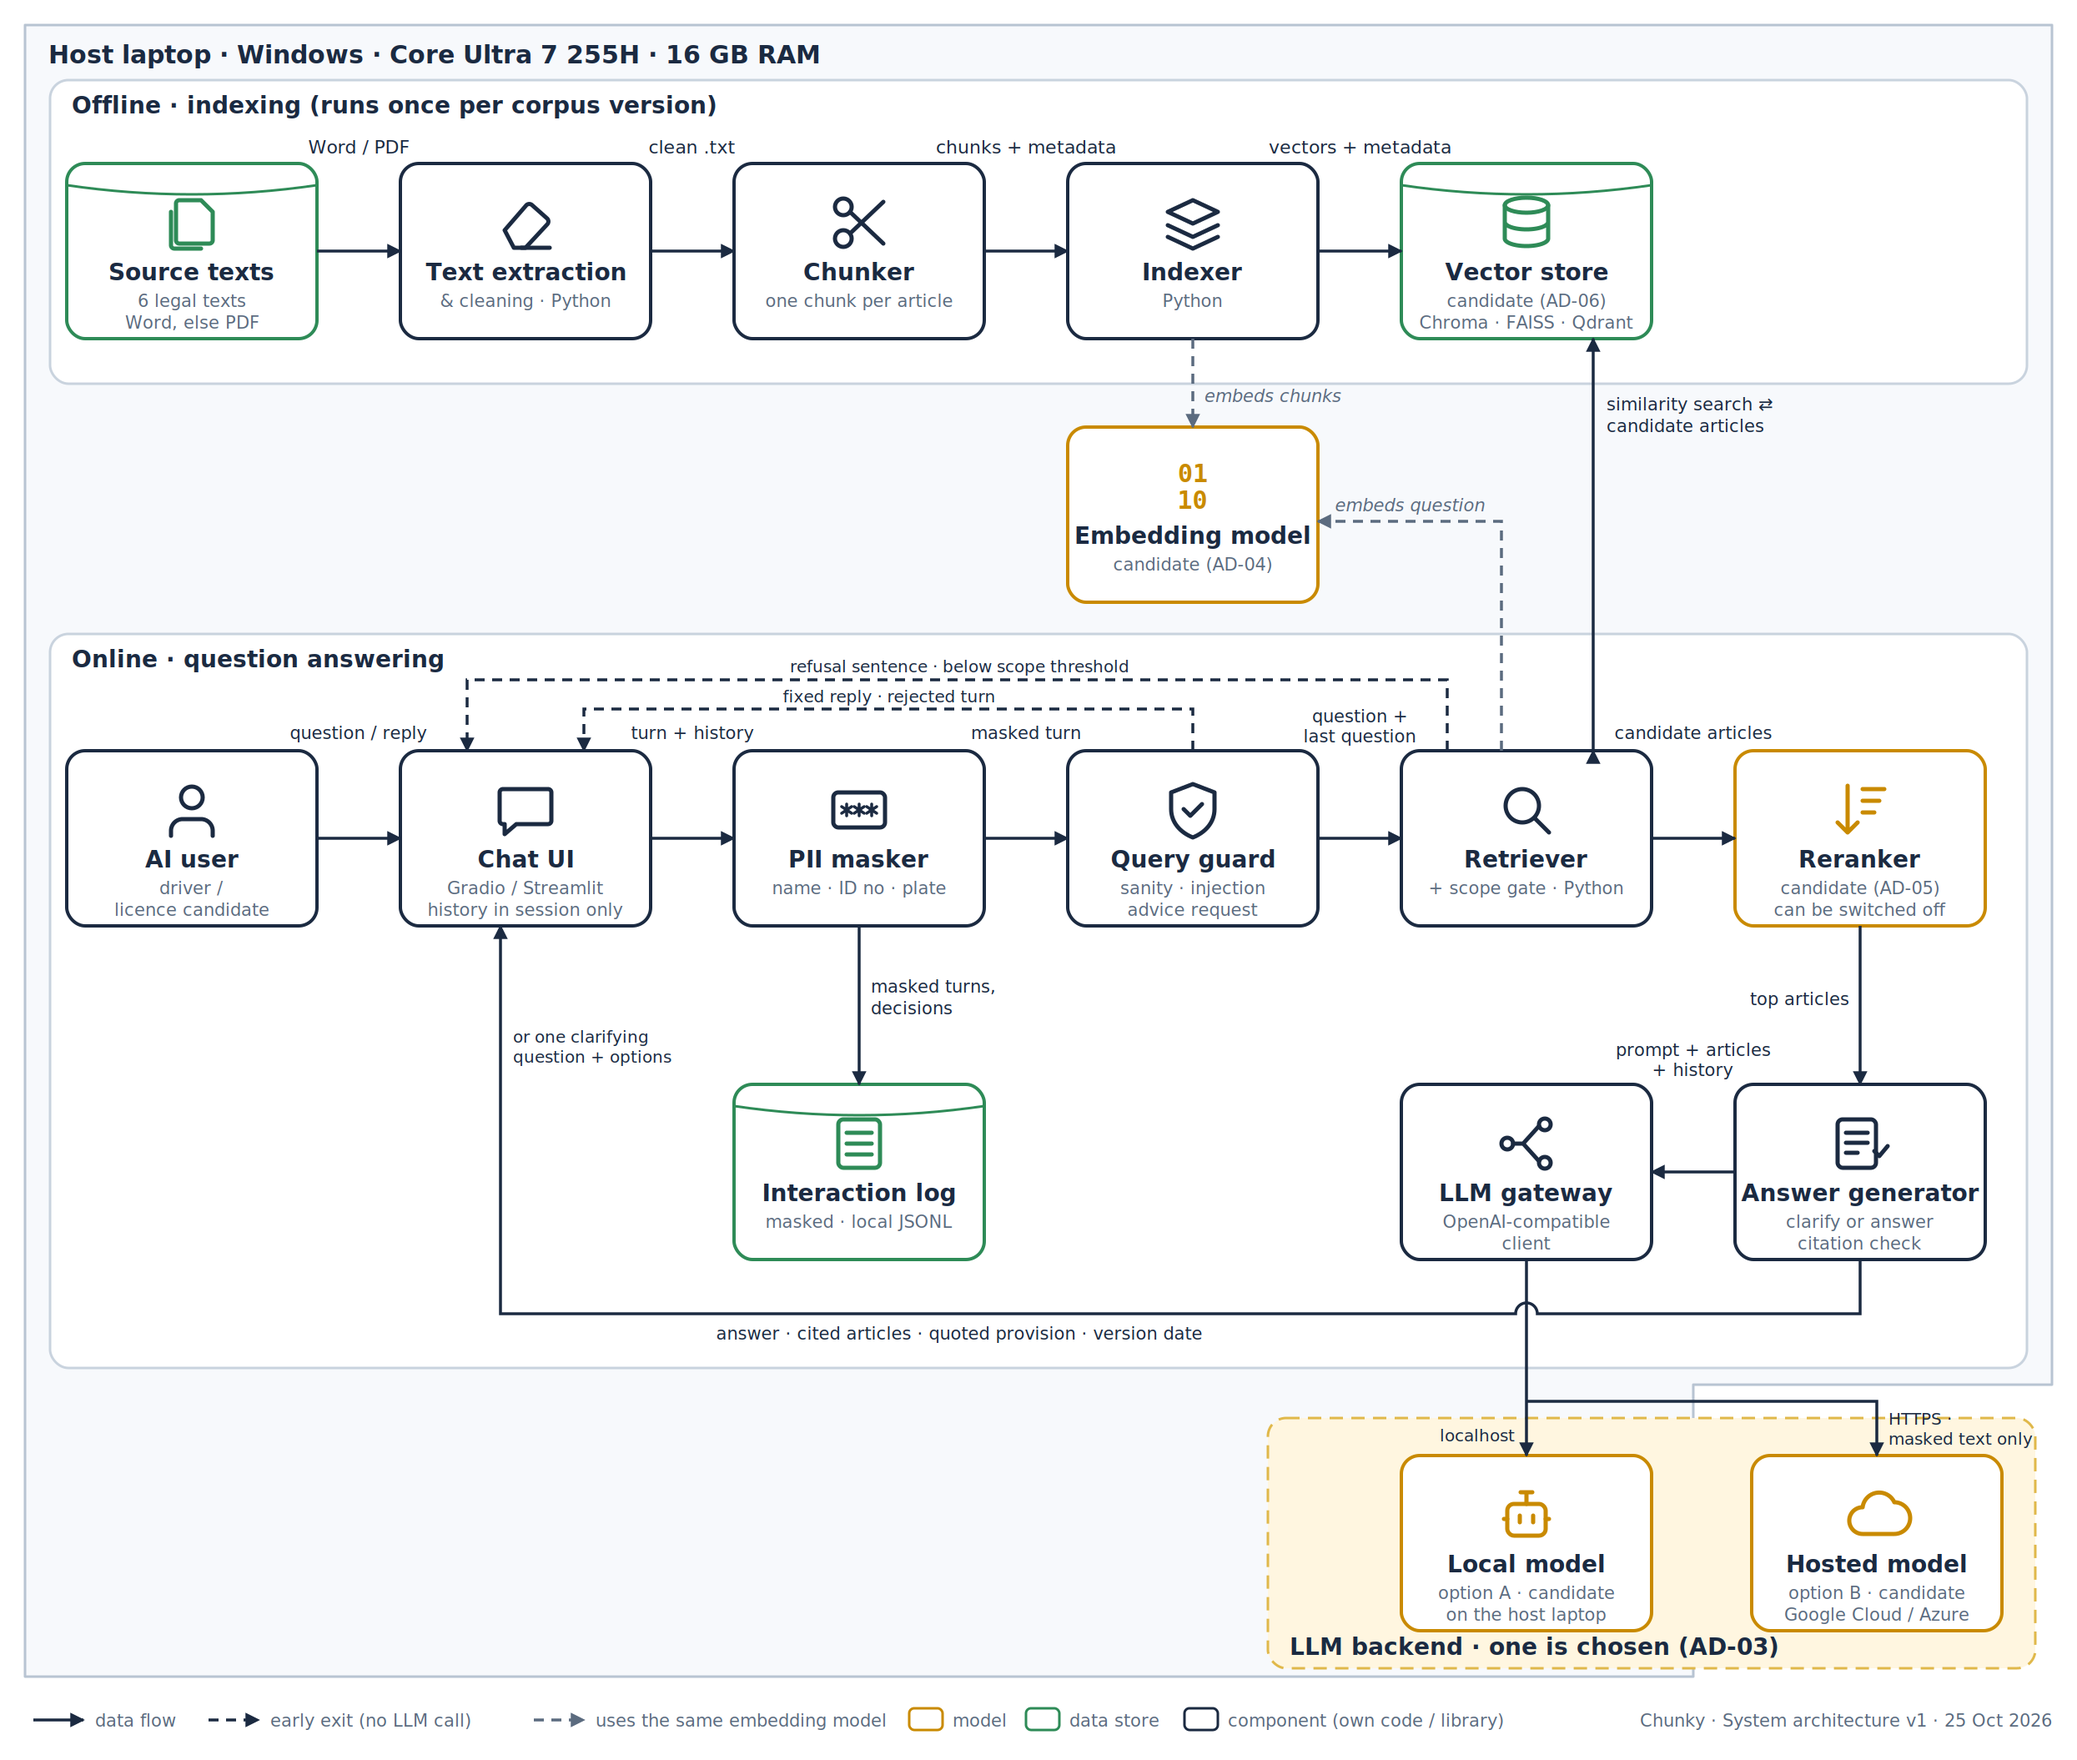
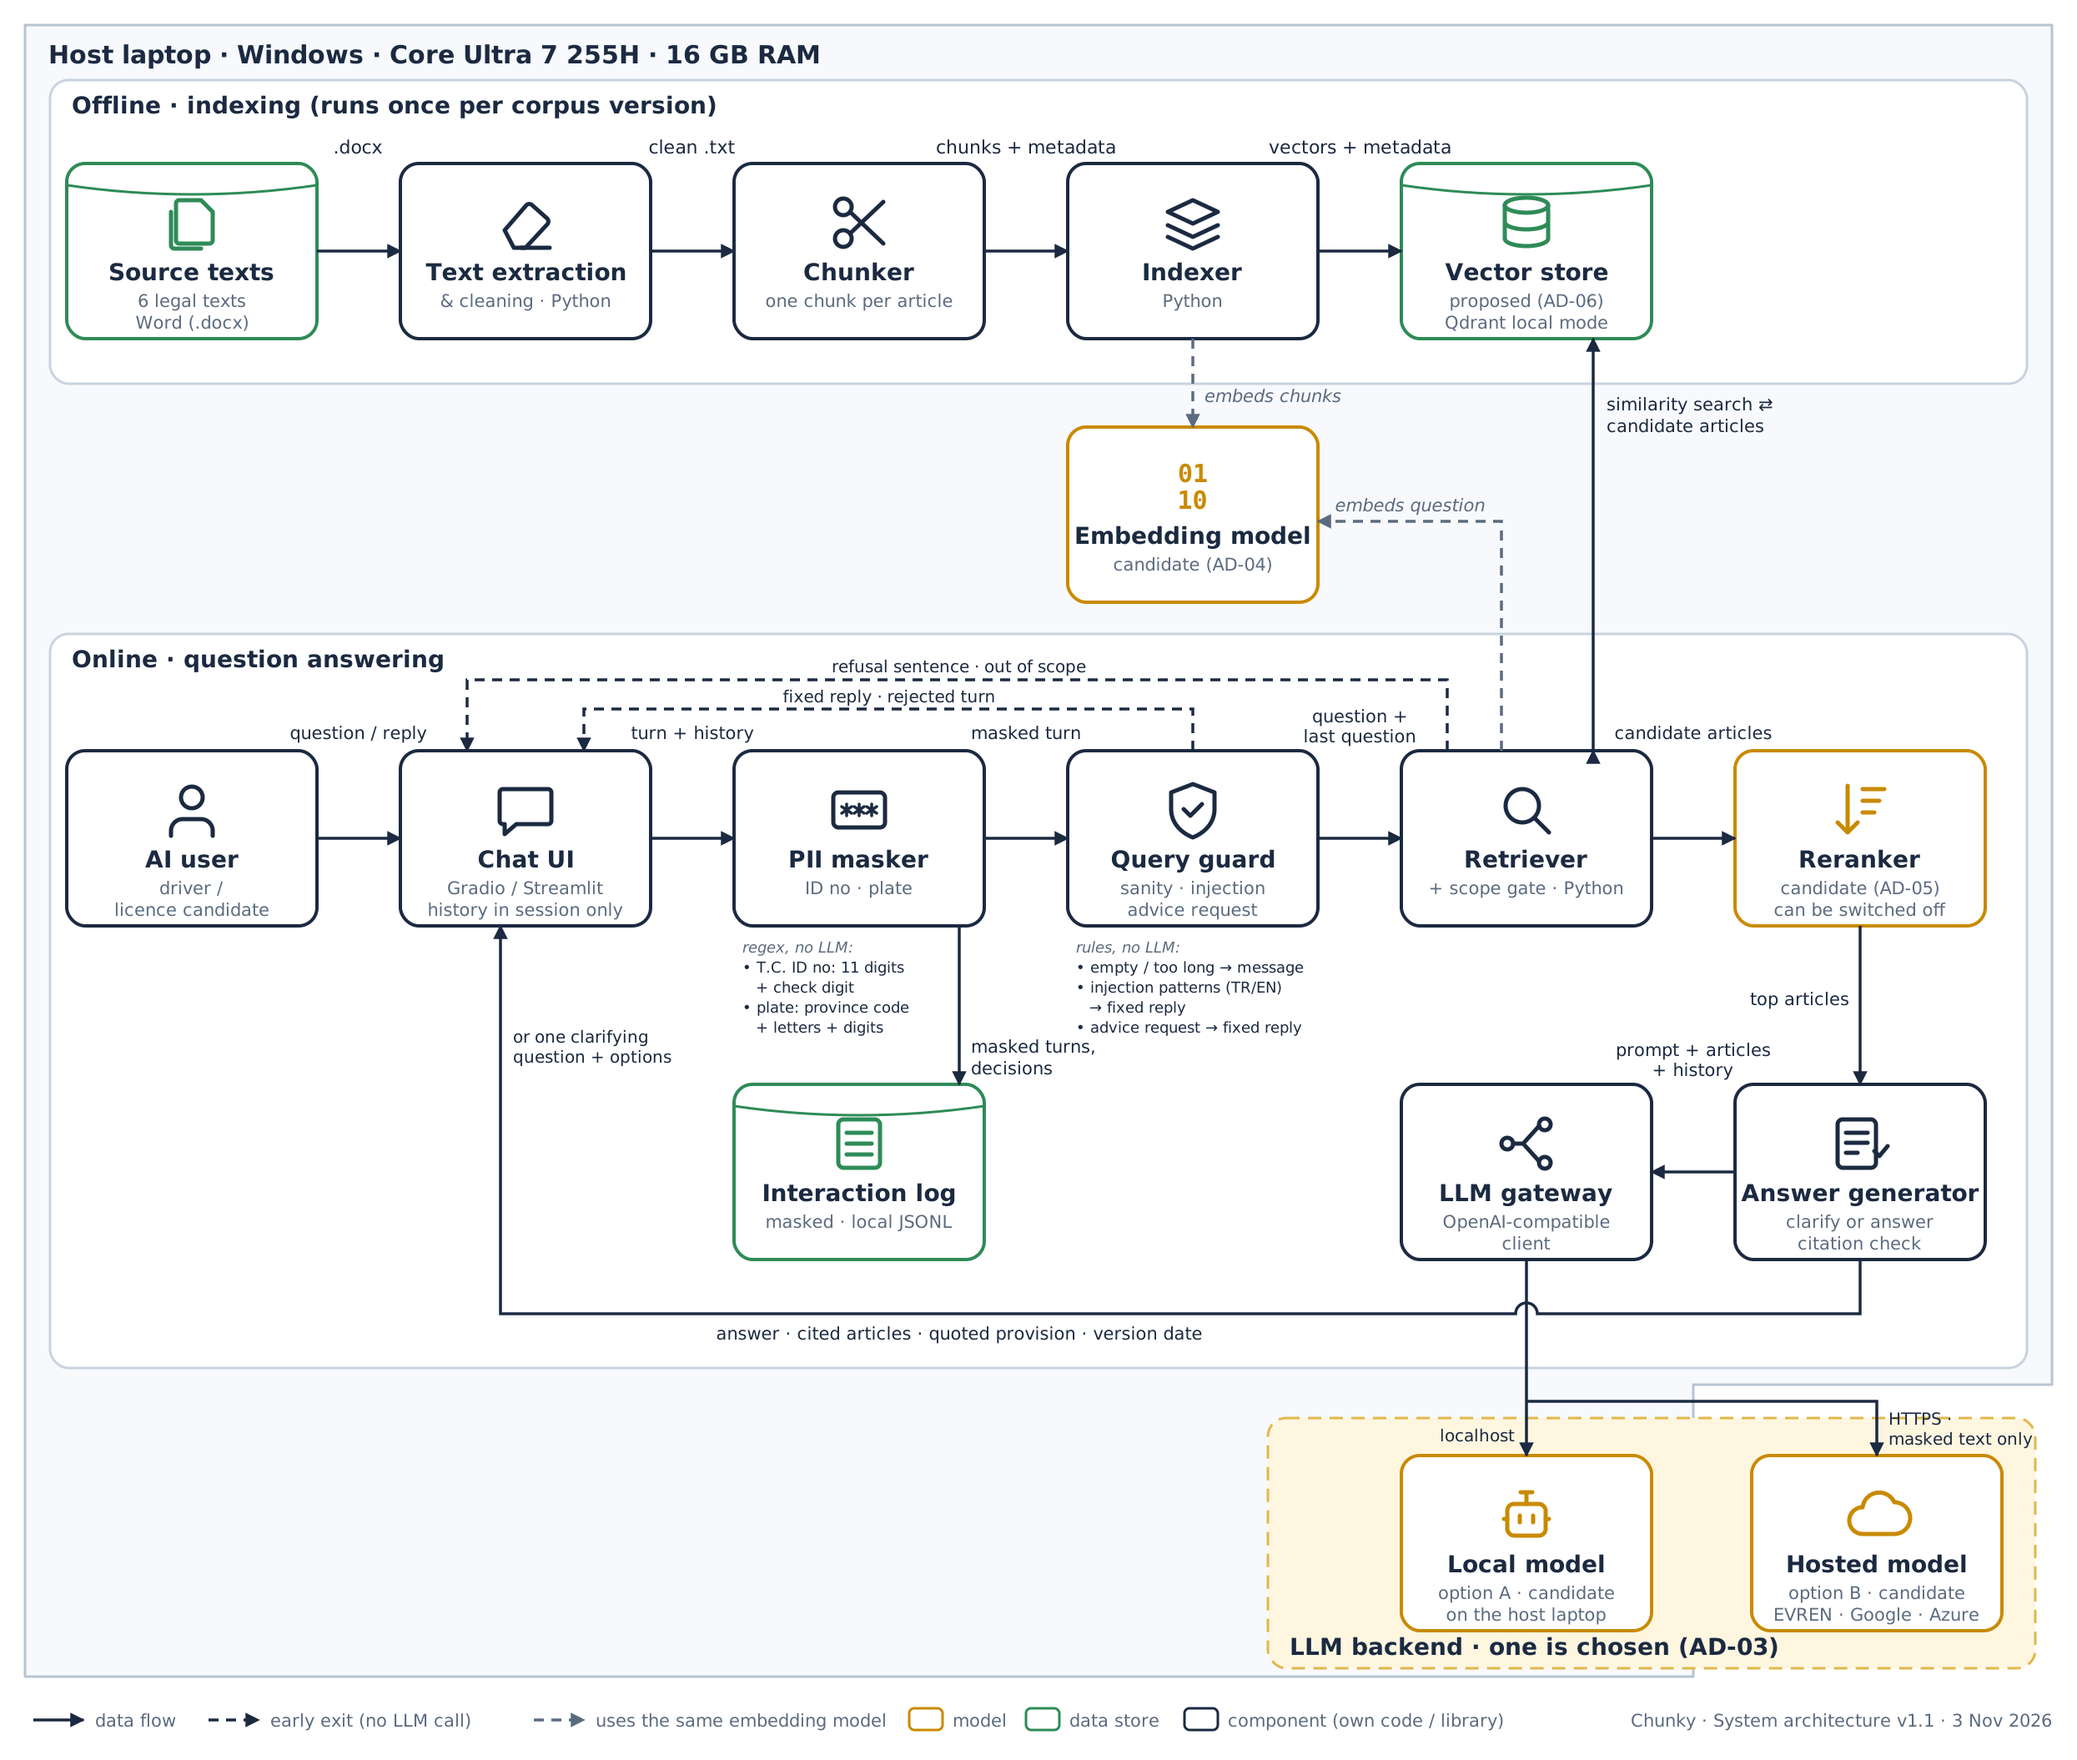
Update architecture diagram: PII masker and query guard details
Diagram v1.1: rule details added to the PII masker and query guard boxes; scope-gate arrow label changed to "out of scope". PNG replaced to match.

diff --git a/Markdown Template/11-system-architecture-design-document-local.md b/Markdown Template/11-system-architecture-design-document-local.md
@@ -71,11 +71,11 @@ flowchart LR
 
         subgraph online ["Online · question answering"]
             user(["AI user<br/>driver / licence candidate"]) -->|question / reply| ui["Chat UI<br/>Gradio / Streamlit<br/>history in session only"]
-            ui -->|turn + history| mask["PII masker<br/>name · ID no · plate"]
-            mask -->|masked turn| guard["Query guard<br/>sanity · injection<br/>advice request"]
+            ui -->|turn + history| mask["PII masker<br/>ID no · plate<br/><i>regex, no LLM:</i><br/>• T.C. ID no: 11 digits + check digit<br/>• plate: province code + letters + digits"]
+            mask -->|masked turn| guard["Query guard<br/>sanity · injection<br/>advice request<br/><i>rules, no LLM:</i><br/>• empty / too long → message<br/>• injection patterns (TR/EN) → fixed reply<br/>• advice request → fixed reply"]
             guard -.->|fixed reply · rejected turn| ui
             guard -->|question + last question| retriever["Retriever<br/>+ scope gate · Python"]
-            retriever -.->|refusal sentence · below scope threshold| ui
+            retriever -.->|refusal sentence · out of scope| ui
             retriever -->|candidate articles| rerank["Reranker<br/>candidate (AD-05)<br/>can be switched off"]
             rerank -->|top articles| gen["Answer generator<br/>clarify or answer<br/>citation check"]
             gen -->|prompt + articles + history| gw["LLM gateway<br/>OpenAI-compatible client"]
